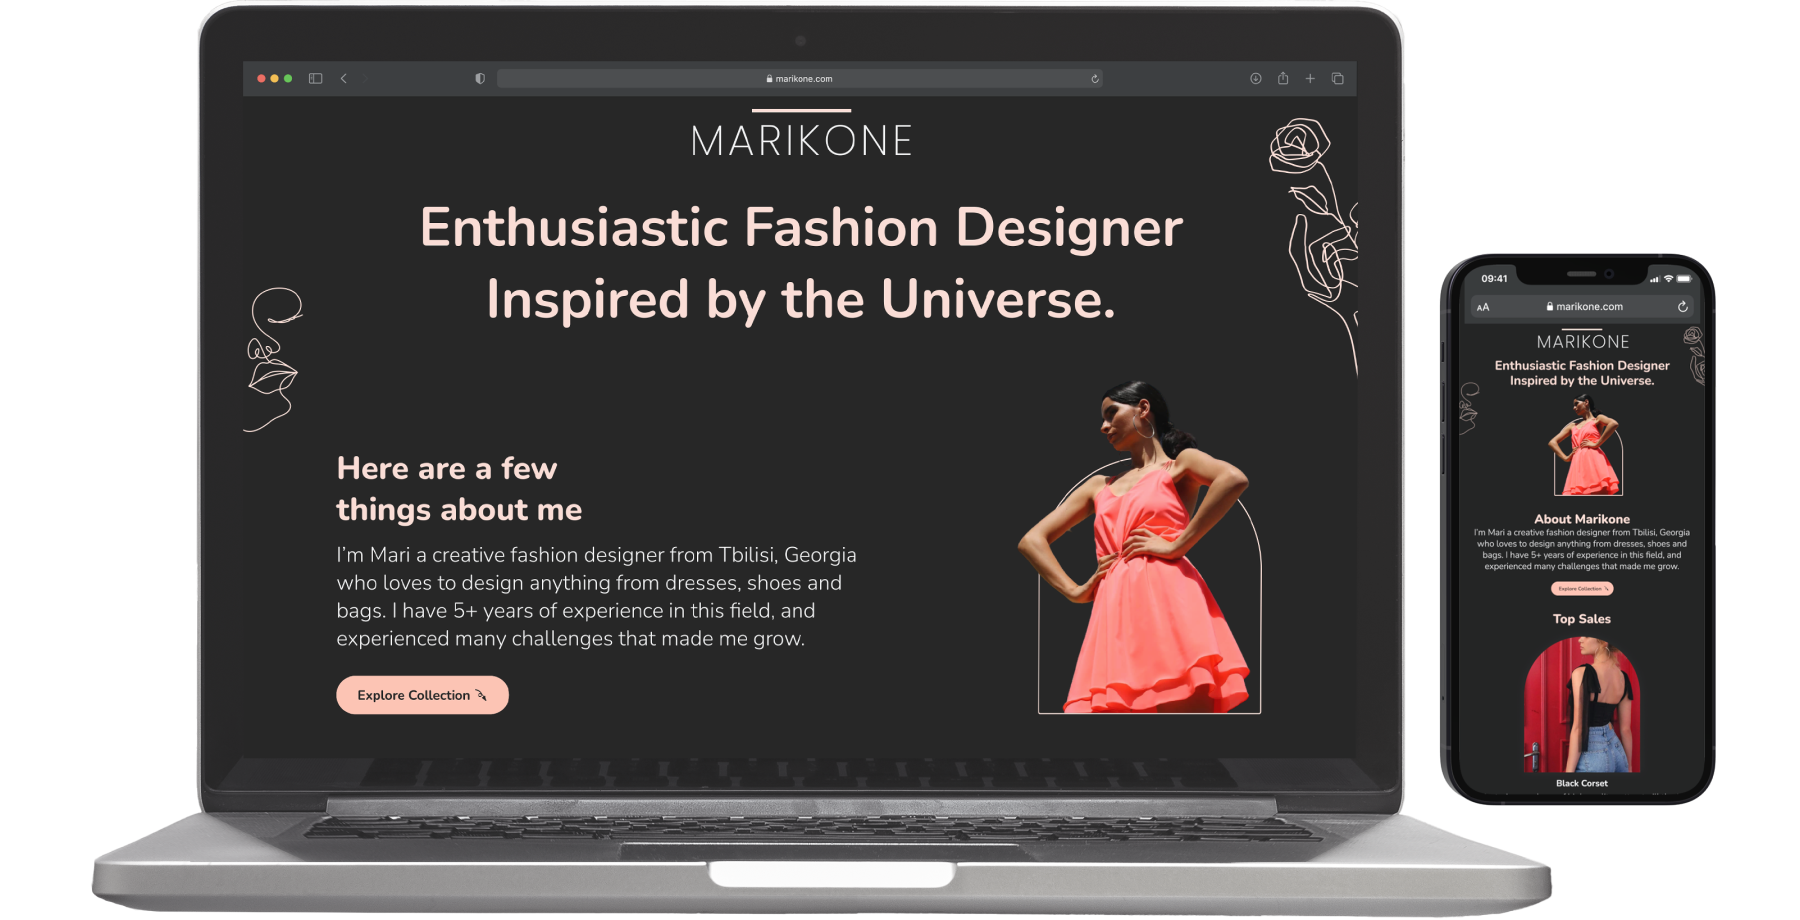
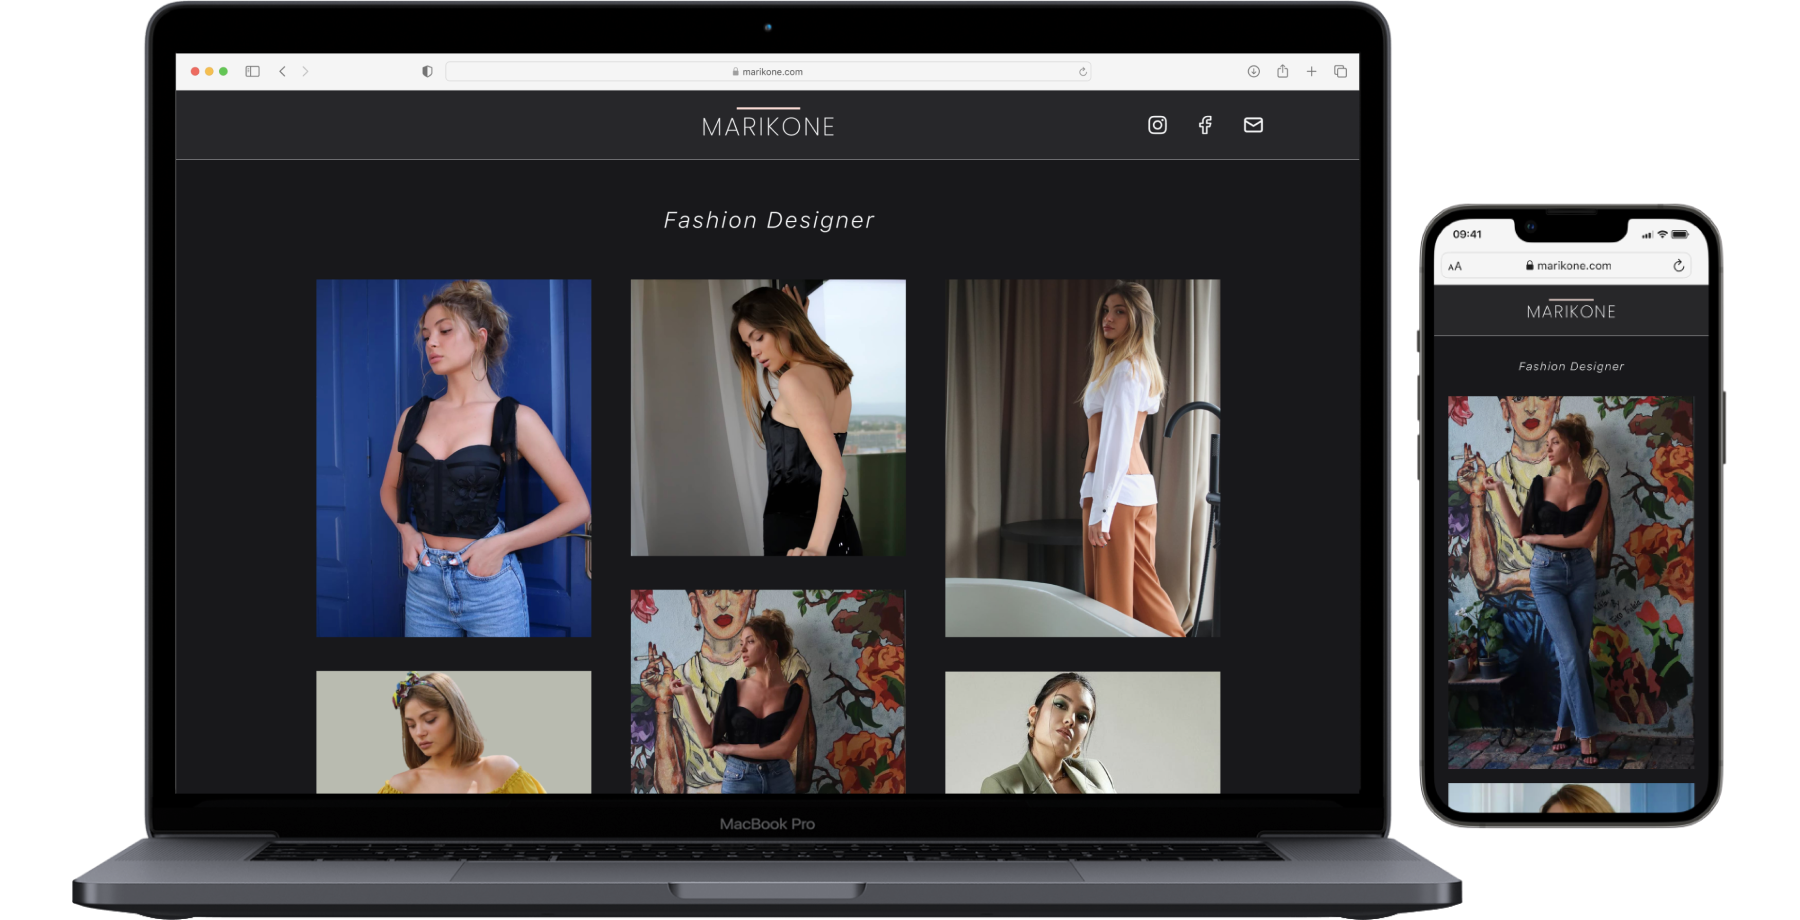
Marikone Hero updated

diff --git a/pages/index.js b/pages/index.js
@@ -36,9 +36,9 @@ export default function App({ isMobile }) {
           {
             title: "Fashion Designer’s Portfolio",
             text: "People can find Marikone’s collections and contact information on the website.",
-            // image: "marikone-hero",
+            image: "marikone-hero",
             link: "/MarikoneWeb", // <--- this is for navigation to project Page when user clicks the card. It should be exact file name as it is in under "pages" folder.
-            visibility: false, // <--- change this to "true" to make it visible, or just delete this line, since the default is "true" anyways.
+            visibility: true, // <--- change this to "true" to make it visible, or just delete this line, since the default is "true" anyways.
           },
           {
             title: "Headline of the project",
